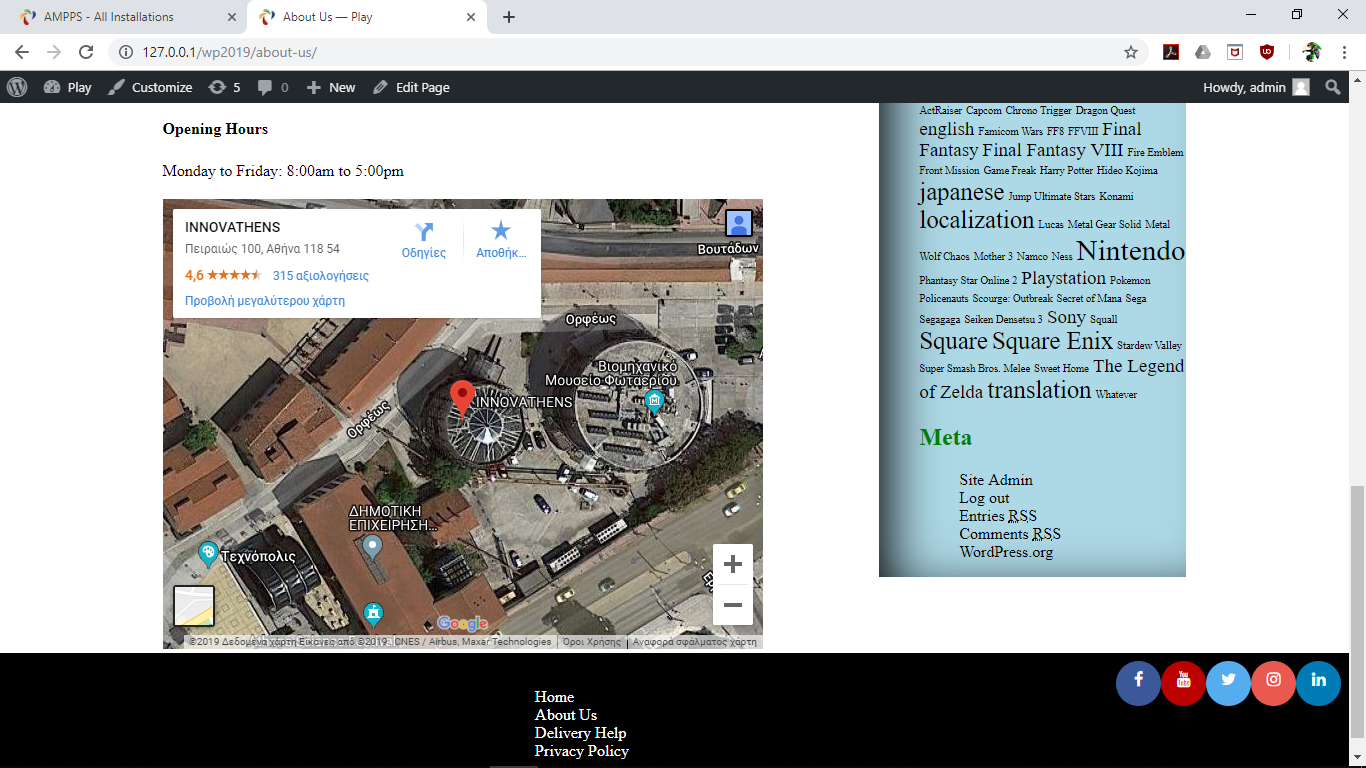
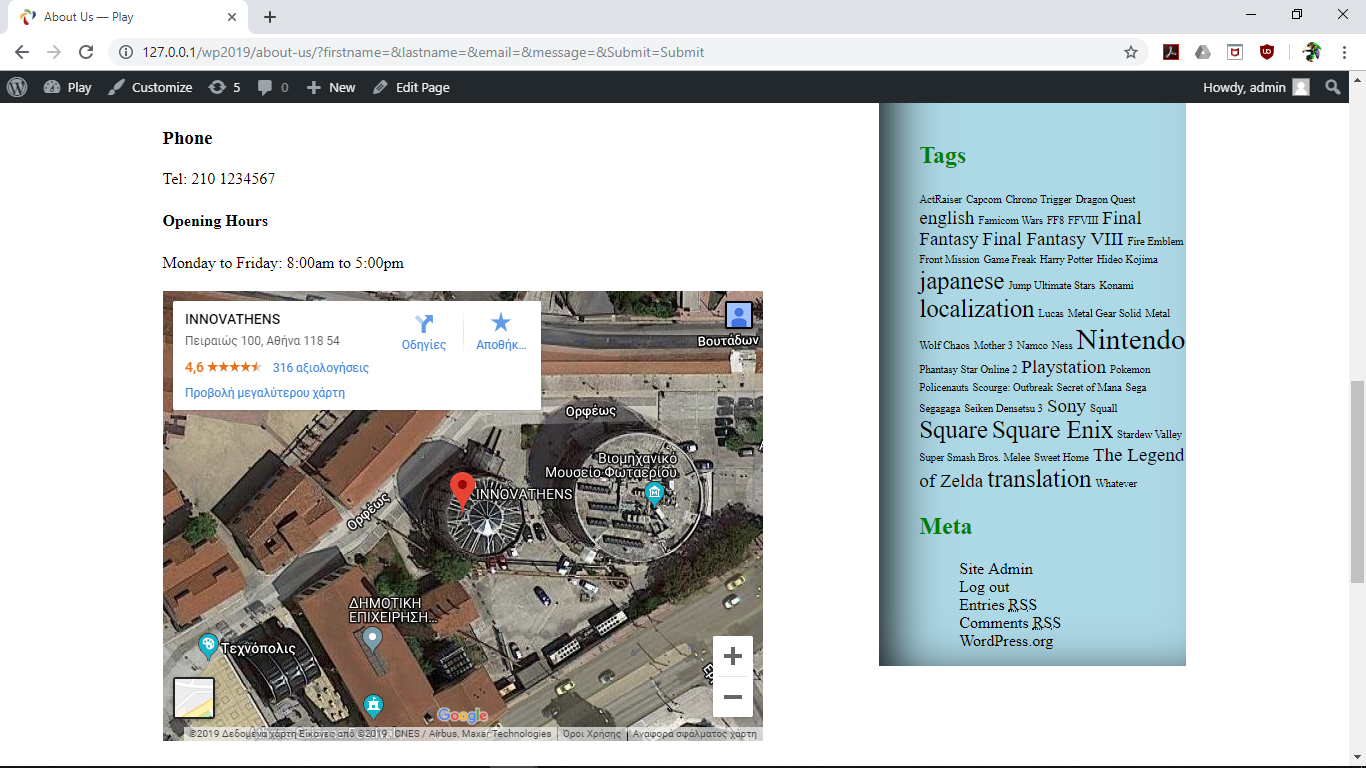
Edited the About Us page

diff --git a/play-japan/css/structure.css b/play-japan/css/structure.css
@@ -276,6 +276,41 @@ a:hover {
   }
 
 
+
+/* Contact Us Form */
+
+.my-form {
+  padding: 20px;
+}
+
+.my-form .form-group {
+  padding-bottom: 15px;
+}
+
+.my-form label {
+  display: block;
+}
+
+.my-form input [type="text"], .my-form textarea {
+  padding: 8px;
+  width: 100%;
+}
+
+.button {
+  background-color: black;
+  color: white;
+  padding: 10px 5px;
+  border: none;
+}
+
+.button:hover {
+  background: red;
+  color: white;
+}
+
+
+
+
 /* Sidebar */
 
 aside {
@@ -376,7 +411,6 @@ footer {
   background: #007bb6;
   color: white;
 }
-
 
 
 

diff --git a/play-japan/css/content.css b/play-japan/css/content.css
@@ -57,3 +57,35 @@ a:hover {
     border: 1px solid gray;
     border-radius: 4px;
   }
+
+
+/* Contact Us Form */
+
+.my-form {
+    padding: 20px;
+  }
+  
+  .my-form .form-group {
+    padding-bottom: 15px;
+  }
+  
+  .my-form label {
+    display: block;
+  }
+  
+  .my-form input [type="text"], .my-form textarea {
+    padding: 8px;
+    width: 100%;
+  }
+  
+  .button {
+    background-color: black;
+    color: white;
+    padding: 10px 5px;
+    border: none;
+  }
+  
+  .button:hover {
+    background: red;
+    color: white;
+  }
